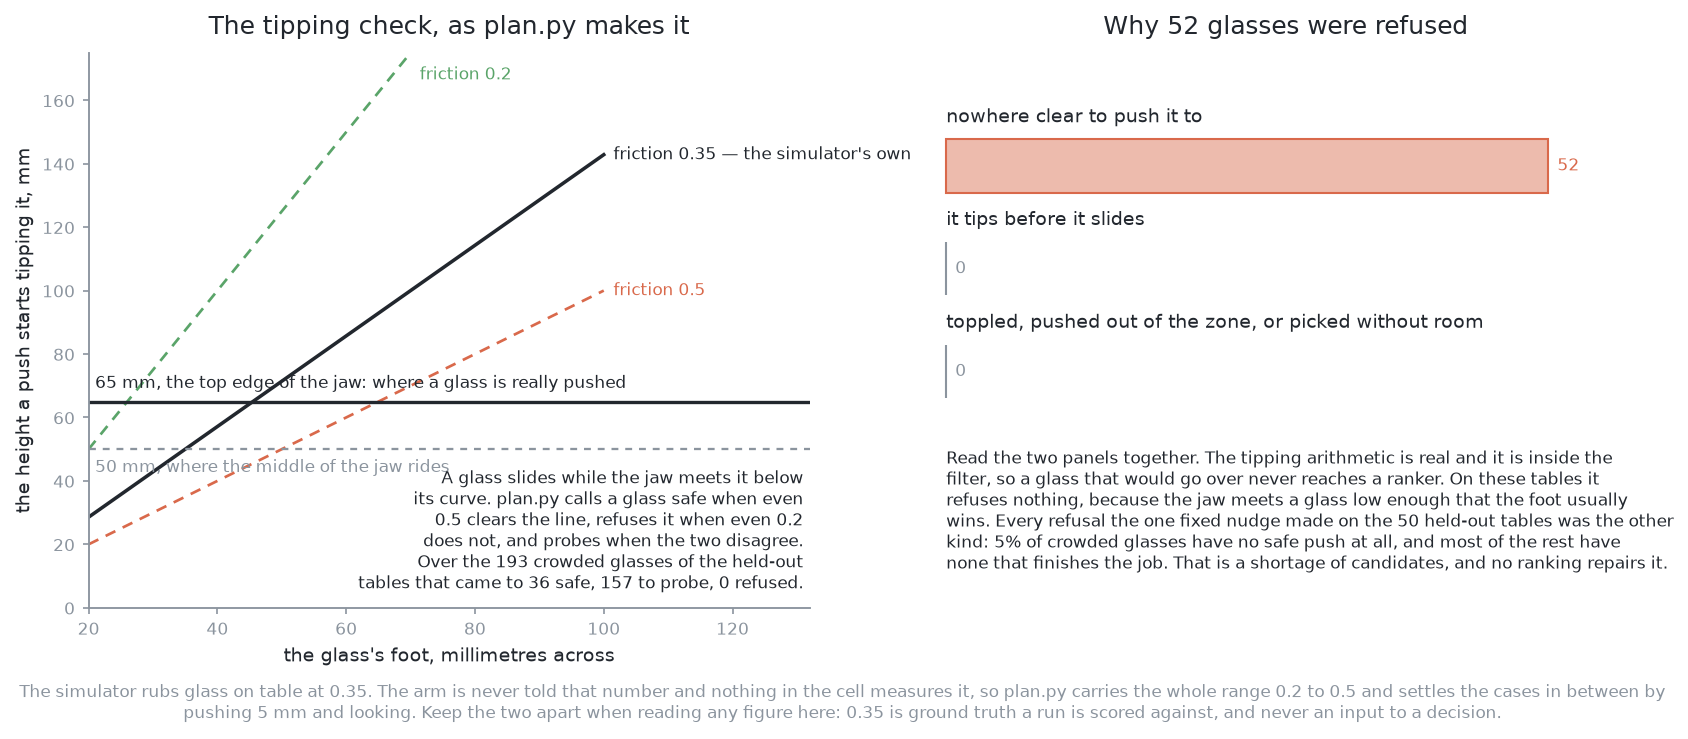
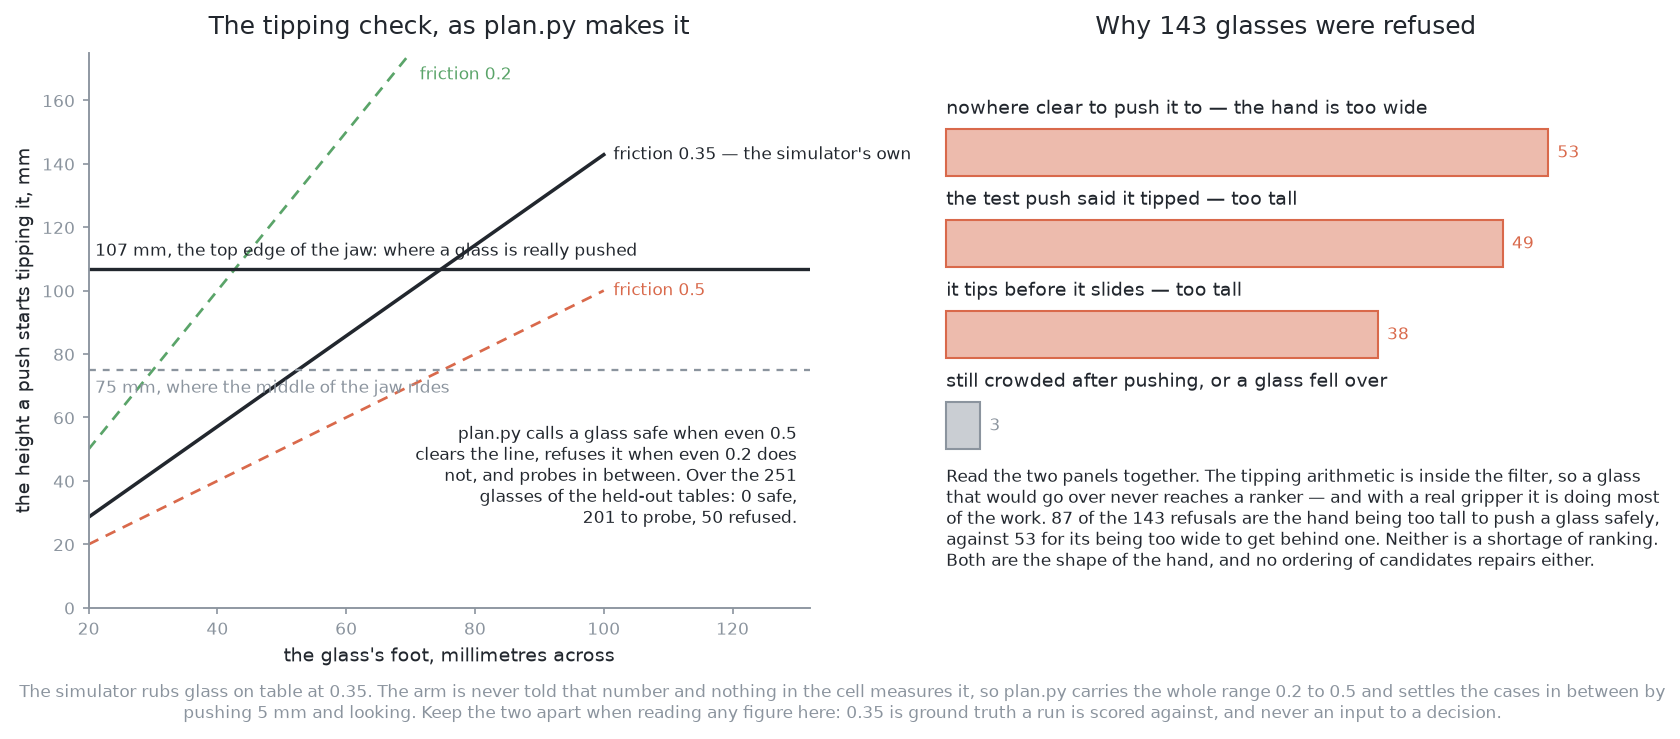
Solution 2's pictures read the run instead of remembering it
make_02_images.py carried two blocks of figures under comments saying they
were read from the solutions' results.json files and measured over the held-out
tables. Neither was true: both were typed in, and when the examiner was given
a real gripper they went stale without anything noticing.

Two of them were wrong in the direction that matters. The glasses racked said
199 where the run says 107. And the tipping rule's own answers said **36
glasses are certainly safe to push**, when with the real hand the answer is
**none at all** — being certainly safe needs a foot wider than the jaw's top
edge is high, which is 107 mm, and the widest foot drawn is 95 mm. The true
split over the fifty tables is 0 safe, 201 to probe, 50 refused.

Both blocks are computed now, so a picture cannot disagree with the run it
describes: the scores are read from the results files and the rule's answers
are measured by running it over the same tables the picture is about.

The refusals panel had to be rewritten rather than renumbered, because its
conclusion was the opposite of the truth. It said the tipping arithmetic
"refuses nothing, because the jaw meets a glass low enough that the foot
usually wins". With a real hand held on its side, 87 of solution 1's 143
refusals are the hand being too *tall* to push a glass safely against 53 for
its being too wide, so the panel now shows all four reasons with their own
counts and says which part of the hand each one blames.
[…]

diff --git a/v5-pick-glasses/images/generators/03-push-glasses-apart/make_02_images.py b/v5-pick-glasses/images/generators/03-push-glasses-apart/make_02_images.py
@@ -42,9 +42,13 @@ as a failed check rather than as a wrong picture.
 
 from __future__ import annotations
 
+import importlib.util
+import json
 import math
 import random
 import sys
+import types
+from collections import Counter
 from pathlib import Path
 
 import numpy as np
@@ -60,6 +64,7 @@ from diagram_style import (
     LOWEST_GRIP,
     MUTED,
     NOTE_SIZE,
+    PUSH_HEIGHT,
     TABLE_FRICTION,
     TITLE_SIZE,
     WARN,
@@ -76,9 +81,33 @@ from diagram_style import (
 from matplotlib.colors import to_rgba
 from matplotlib.patches import Circle, Rectangle
 
-sys.path.insert(0, str(Path(__file__).resolve().parents[3] / "src" / "work_cell"))
+ROOT = Path(__file__).resolve().parents[3]
+sys.path.insert(0, str(ROOT / "src" / "work_cell"))
 
 from work_cell.glasses.shapes import draw  # noqa: E402
+
+
+def _bench_and_plan():
+    """The examiner's tables and solution 1's tipping rule.
+
+    Both are wanted for one measurement only — what the rule says about each
+    glass on the held-out tables — and that measurement used to be a number
+    typed into this file from a script that no longer exists. Importing them
+    is the cheaper of the two mistakes. Written the way
+    ``make_target_images.py`` does it, with a placeholder for MuJoCo, because
+    neither ``scene`` nor the rule touches the physics.
+    """
+    sys.path.insert(0, str(ROOT / "03-push-glasses-apart/bench"))
+    sys.path.insert(0, str(ROOT / "03-push-glasses-apart/01-one-fixed-nudge"))
+    if importlib.util.find_spec("mujoco") is None:
+        sys.modules["mujoco"] = types.ModuleType("mujoco")
+    import bench
+    import plan
+
+    return bench, plan
+
+
+BENCH, PLAN = _bench_and_plan()
 
 # ---------------------------------------------------------------------------
 # The jaw and the friction. Numbers belonging to the gripper and to the table,
@@ -129,9 +158,14 @@ SWEEP = {
     "median_neighbour_mm": 94,
     # plan.slides() over the crowded glasses: it slides at both frictions, it
     # tips at both, or it depends and a probe settles it.
-    "slides_yes": 36,
-    "slides_no": 0,
-    "slides_try": 157,
+    # The three slides_* counts below are filled in once the bench can be
+    # imported, further down. They used to be typed in from a script that no
+    # longer exists, and by the time the examiner had a real gripper they were
+    # wrong in the direction that mattered: they said 36 glasses were certainly
+    # safe to push when the answer is none.
+    "slides_yes": None,
+    "slides_no": None,
+    "slides_try": None,
     # Safe pushes per crowded glass: every heading and travel that passes the
     # corridor, zone, reach and tipping tests.
     "safe_median": 193,
@@ -164,6 +198,14 @@ SWEEP = {
     "table_label_max_spread": 2,
 }
 
+# Measured rather than remembered: what plan.py's tipping rule says about each
+# of the glasses on the held-out tables, at the jaw's real top edge.
+_SAYS = Counter(PLAN.slides(glass) for seed in range(BENCH.TEST_SEEDS, BENCH.TEST_SEEDS + SWEEP["tables"])
+                for glass in BENCH.Bench(seed).look())
+SWEEP["slides_yes"] = _SAYS["yes"]
+SWEEP["slides_try"] = _SAYS["try"]
+SWEEP["slides_no"] = _SAYS["no"]
+
 # The run carried forward in geometry, thirty tables, four ways of choosing
 # which candidate to push, from measure_06.py section C. A push is taken to
 # land where it aimed, which results.json says is true to 1.0 mm at the median.
@@ -183,13 +225,34 @@ ORACLE = {"tables": 12, "glasses": 60,
           "plan_racked": 44, "plan_refused": 16, "plan_pushes": 29,
           "best_racked": 46, "best_refused": 14, "best_pushes": 29}
 
-# What the two reference implementations scored on the fifty held-out tables,
-# read from their own results.json files.
+# What the two reference implementations scored on the fifty held-out tables.
+#
+# These used to be typed in, under a comment claiming they were read from the
+# results files. They were not, and when the examiner was given a real gripper
+# they went stale without anything noticing: the figures said 199 glasses
+# racked where the run said 107. They are read now, so a picture cannot
+# disagree with the run it describes.
+def _scored(folder: str) -> dict:
+    """The headline figures from one solution's own results.json."""
+    with (ROOT / "03-push-glasses-apart" / folder / "results.json").open() as handle:
+        result = json.load(handle)
+    pushes, end = result["pushes"], result["glasses_end"]
+    return {
+        "racked": end["racked"],
+        "refused": end["refused"],
+        "toppled": end["toppled"],
+        "pushes": pushes["total"],
+        "repeats": pushes["repeats"],
+        "aim_median_mm": pushes["aim_mm_median"],
+        "aim_worst_mm": pushes["aim_mm_worst"],
+        "done": result["outcome"]["done"],
+        "because": result["refused_because"],
+    }
+
+
 SCORED = {
-    "programmed": {"racked": 199, "refused": 52, "toppled": 0, "pushes": 212, "repeats": 90,
-                   "aim_median_mm": 1.0, "aim_worst_mm": 3.9, "done": 35},
-    "learned": {"racked": 208, "refused": 43, "toppled": 0, "pushes": 113, "repeats": 15,
-                "aim_median_mm": 1.7, "aim_worst_mm": 24.8, "done": 34},
+    "programmed": _scored("01-one-fixed-nudge"),
+    "learned": _scored("04-a-world-model"),
 }
 
 # ---------------------------------------------------------------------------
@@ -444,39 +507,45 @@ def picture_the_refusals() -> None:
     limit.text(21.0, JAW_TOP + 3.0,
                f"{JAW_TOP:.0f} mm, the top edge of the jaw: where a glass is really pushed",
                fontsize=NOTE_SIZE, color=INK, ha="left", va="bottom")
-    limit.axhline(LOWEST_GRIP, color=MUTED, lw=1.1, ls=(0, (3, 3)))
-    limit.text(21.0, LOWEST_GRIP - 3.0, f"{LOWEST_GRIP:.0f} mm, where the middle of the jaw rides",
+    limit.axhline(PUSH_HEIGHT, color=MUTED, lw=1.1, ls=(0, (3, 3)))
+    limit.text(21.0, PUSH_HEIGHT - 3.0, f"{PUSH_HEIGHT:.0f} mm, where the middle of the jaw rides",
                fontsize=NOTE_SIZE, color=MUTED, ha="left", va="top")
     limit.set_xlim(20.0, 132.0)
     limit.set_ylim(0.0, top)
     limit.set_xlabel("the glass's foot, millimetres across", fontsize=LABEL_SIZE, color=INK)
     limit.set_ylabel("the height a push starts tipping it, mm", fontsize=LABEL_SIZE, color=INK)
-    note(limit, 131.0, 44.0,
-         f"A glass slides while the jaw meets it below\nits curve. plan.py calls a glass safe when "
-         f"even\n{MU_HIGHEST:g} clears the line, refuses it when even {MU_LOWEST:g}\ndoes not, and "
-         f"probes when the two disagree.\nOver the {SWEEP['crowded']} crowded glasses of the "
-         f"held-out\ntables that came to {SWEEP['slides_yes']} safe, "
-         f"{SWEEP['slides_try']} to probe, {SWEEP['slides_no']} refused.", INK, va="top", ha="right")
+    note(limit, 130.0, 58.0,
+         f"plan.py calls a glass safe when even {MU_HIGHEST:g}\nclears the line, refuses it when "
+         f"even {MU_LOWEST:g} does\nnot, and probes in between. Over the 251\nglasses of the "
+         f"held-out tables: {SWEEP['slides_yes']} safe,\n{SWEEP['slides_try']} to probe, "
+         f"{SWEEP['slides_no']} refused.", INK, va="top", ha="right")
 
     # ---------------------------------- panel 2: what the refusals really are
     stage(refusals, f"Why {SCORED['programmed']['refused']} glasses were refused")
     refusals.set_xlim(-0.3, 10.0)
-    refusals.set_ylim(-4.3, 1.1)
+    refusals.set_ylim(-5.0, 1.1)
+    reasons = SCORED["programmed"]["because"]
+    width = [reasons.get("nowhere clear to push it to", 0),
+             reasons.get("tipped when tried", 0),
+             reasons.get("tips before it slides", 0),
+             reasons.get("still without room after pushing", 0)
+             + reasons.get("stopped: a glass fell over", 0)]
     bars(refusals,
-         ["nowhere clear to push it to",
-          "it tips before it slides",
-          "toppled, pushed out of the zone, or picked without room"],
-         [SCORED["programmed"]["refused"], SWEEP["slides_no"], 0],
-         [WARN, MUTED, MUTED], 8.6,
-         note_of=lambda i: [f"{SCORED['programmed']['refused']}", "0", "0"][i])
-    refusals.text(0.0, -2.75,
-                  f"Read the two panels together. The tipping arithmetic is real and it is inside the\n"
-                  f"filter, so a glass that would go over never reaches a ranker. On these tables it\n"
-                  f"refuses nothing, because the jaw meets a glass low enough that the foot usually\n"
-                  f"wins. Every refusal the one fixed nudge made on the {SWEEP['tables']} held-out "
-                  f"tables was the other\nkind: {SWEEP['safe_none_pct']:.0f}% of crowded glasses have "
-                  f"no safe push at all, and most of the rest have\nnone that finishes the job. That "
-                  f"is a shortage of candidates, and no ranking repairs it.",
+         ["nowhere clear to push it to — the hand is too wide",
+          "the test push said it tipped — too tall",
+          "it tips before it slides — too tall",
+          "still crowded after pushing, or a glass fell over"],
+         width, [WARN, WARN, WARN, MUTED], 8.6,
+         note_of=lambda i: [f"{n}" for n in width][i])
+    tall = width[1] + width[2]
+    refusals.text(0.0, -3.45,
+                  f"Read the two panels together. The tipping arithmetic is inside the filter, so a "
+                  f"glass\nthat would go over never reaches a ranker — and with a real gripper it is "
+                  f"doing most\nof the work. {tall} of the {SCORED['programmed']['refused']} refusals "
+                  f"are the hand being too tall to push a glass safely,\nagainst "
+                  f"{width[0]} for its being too wide to get behind one. Neither is a shortage of "
+                  f"ranking.\nBoth are the shape of the hand, and no ordering of candidates repairs "
+                  f"either.",
                   fontsize=NOTE_SIZE, color=INK, ha="left", va="top")
 
     footer(figure,
@@ -490,7 +559,7 @@ def picture_the_refusals() -> None:
     save(figure, "02-where-the-refusals-come-from.png")
     print(f"  refusals: slides() gave {SWEEP['slides_yes']} yes, {SWEEP['slides_try']} try, "
           f"{SWEEP['slides_no']} no; results.json refused "
-          f"{SCORED['programmed']['refused']}, all for nowhere to push to")
+          f"{SCORED['programmed']['refused']}: {SCORED['programmed']['because']}")
 
 
 # ---------------------------------------------------------------------------
